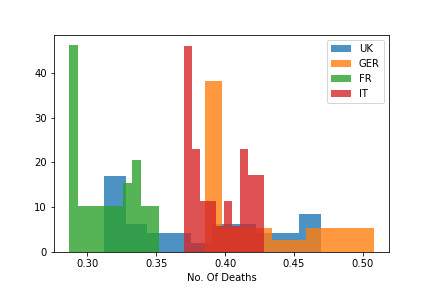
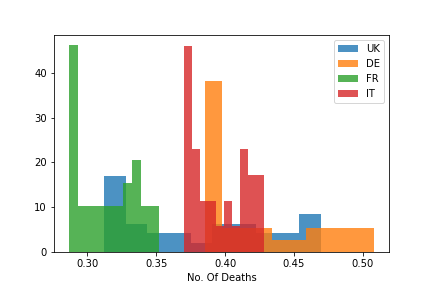
Minor changes

Changed region(s): [[0.8125, 0.1562, 0.8727, 0.3438], [0.7523, 0.125, 0.7824, 0.375]]

diff --git a/code.py b/code.py
@@ -2,7 +2,7 @@
 
 """
 This program takes cause of deaths data from around the world and produces plots 
-for certain countries which can be used to compare and analyse the data
+for certain countries which can be used to compare and analyse the data 
 """
 
 #Importing required packages
@@ -36,7 +36,7 @@ def lineplot_different_countries(y_axis, x_axis):
     plt.xlim(1990,2019)
     plt.xlabel("Year")
     plt.ylabel("Cardiovascular Deaths")
-    plt.legend(["UK","GER","FR","IT"])
+    plt.legend(["UK","DE","FR","IT"])
     plt.savefig("line1.png")
     plt.show()
 
@@ -63,7 +63,7 @@ def box_plot(y_axis, x_axis):
     """
     data = [uk[x_axis], germany[x_axis],france[x_axis],italy[x_axis]]
     plt.figure()
-    plt.boxplot([data[0] , data[1] , data[2], data[3]],labels=["UK","GER","FR","IT"])
+    plt.boxplot([data[0] , data[1] , data[2], data[3]],labels=["UK","DE","FR","IT"])
     plt.ylabel("Deaths")
     plt.savefig("box.png")
     plt.show()
@@ -82,7 +82,7 @@ def bar_chart(y_axis, x_axis):
     """
     plt.figure()
     plt.hist(uk["cvd per total deaths"],label = "UK", density=True,alpha=0.8)
-    plt.hist(germany["cvd per total deaths"], label = "GER", density=True,alpha=0.8)
+    plt.hist(germany["cvd per total deaths"], label = "DE", density=True,alpha=0.8)
     plt.hist(france["cvd per total deaths"], label = "FR", density=True,alpha=0.8)
     plt.hist(italy["cvd per total deaths"], label = "IT", density=True,alpha=0.8)
     plt.legend()
